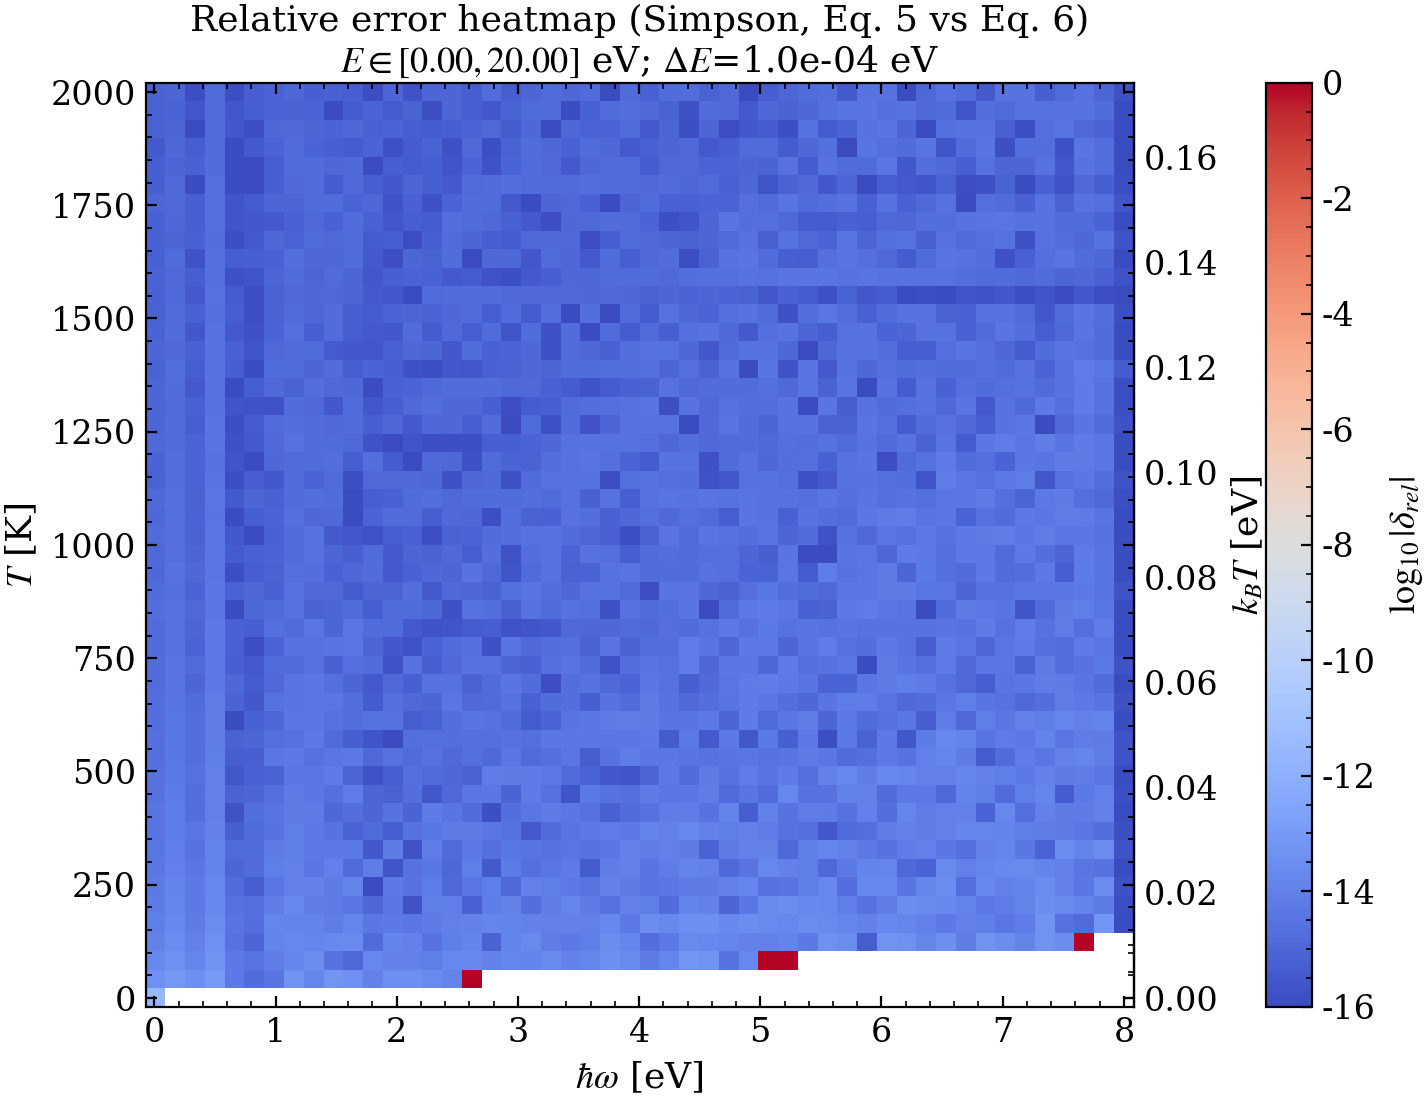
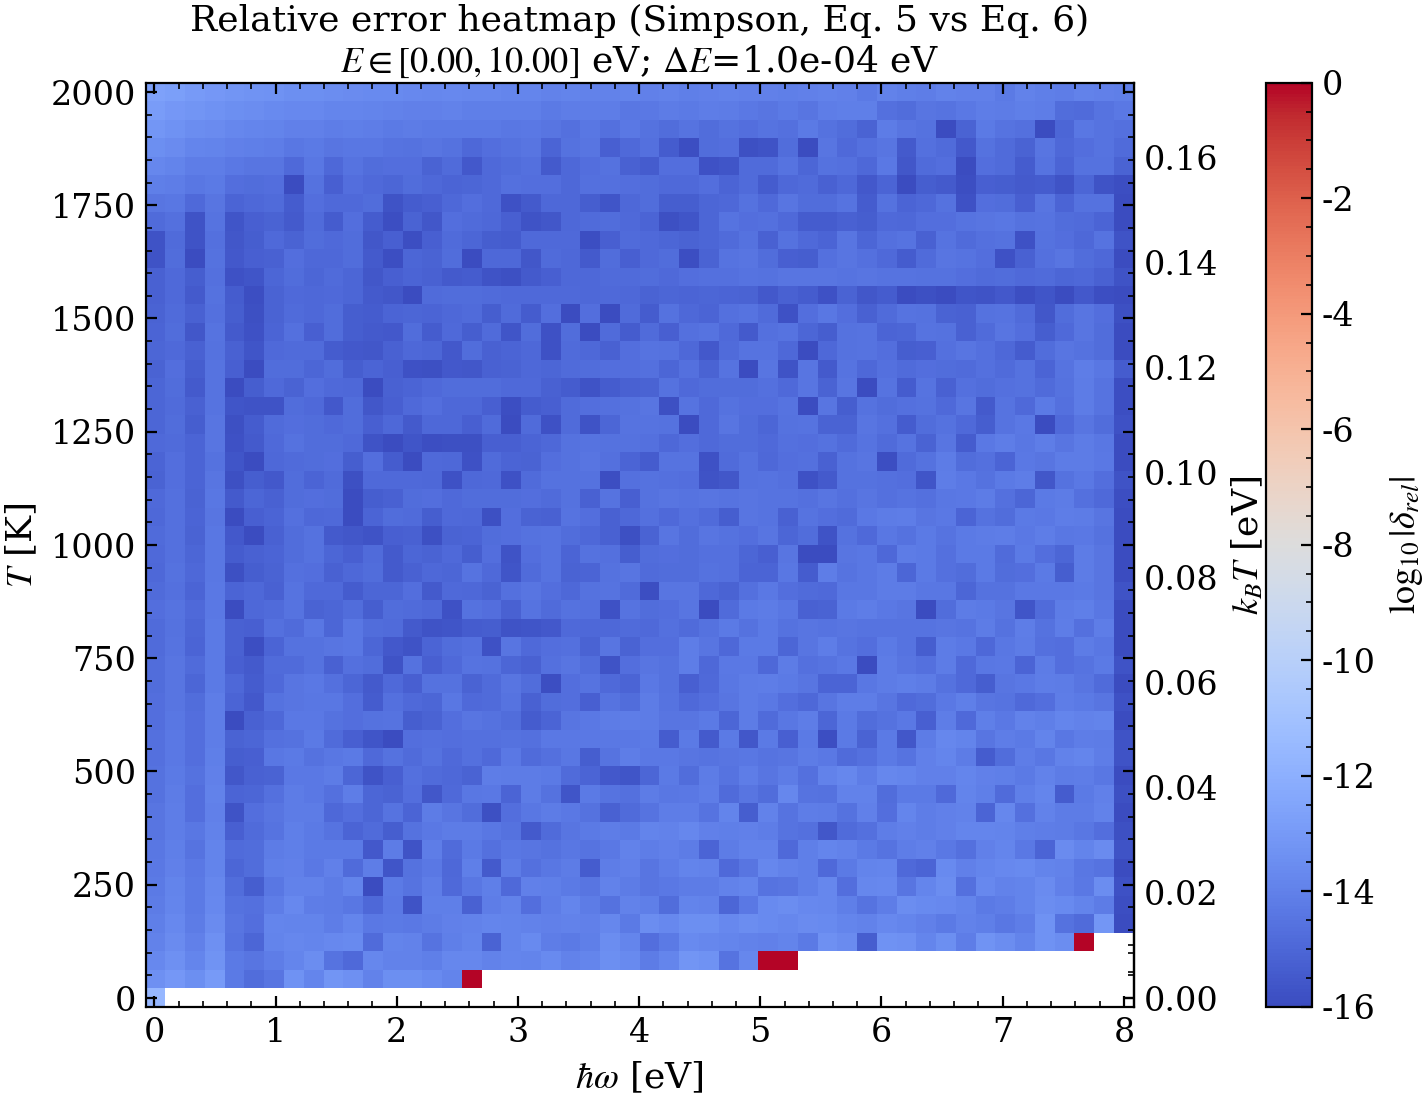
bus

diff --git a/code/main/3_constant_edos_approx.py b/code/main/3_constant_edos_approx.py
@@ -5,6 +5,19 @@ from scipy.integrate import simpson
 from plot_style import apply_style, save_svg, set_figure_title
 
 
+CONVERGED_D_E = 1e-4
+CONVERGED_E_MAX = 5.8
+
+
+def converged_energy_grid(
+    *, E_min: float = E_MIN, E_max: float = CONVERGED_E_MAX, dE: float = CONVERGED_D_E
+) -> np.ndarray:
+    E_grid = np.arange(E_min, E_max + dE, dE)
+    if E_grid.size < 2:
+        raise ValueError("E_min/E_max/dE must define at least two grid points.")
+    return E_grid
+
+
 def I5(hw, T):
     hw = np.asanyarray(hw)[..., None]
     T = np.asanyarray(T)[..., None]
@@ -18,6 +31,43 @@ def I4(hw, T):
     T = np.asanyarray(T)[..., None]
     integrand = eDOS(E_GRID) * eDOS(E_GRID + hw) * F_T(E_GRID + hw, E_GRID, T)
     return simpson(integrand, E_GRID, axis=-1)
+
+
+def I5_nonthermal(
+    hw,
+    T,
+    *,
+    hw_L: float,
+    delta_E: float,
+    E_grid: np.ndarray | None = None,
+):
+    if E_grid is None:
+        E_grid = converged_energy_grid()
+    hw = np.asanyarray(hw)[..., None]
+    T = np.asanyarray(T)[..., None]
+    g_F = eDOS(E_F)
+    f1 = f_neq(E_grid + hw, T, hw_L=hw_L, delta_E=delta_E)
+    f2 = f_neq(E_grid, T, hw_L=hw_L, delta_E=delta_E)
+    integrand = (g_F**2) * f1 * (1 - f2)
+    return simpson(integrand, E_grid, axis=-1)
+
+
+def I4_nonthermal(
+    hw,
+    T,
+    *,
+    hw_L: float,
+    delta_E: float,
+    E_grid: np.ndarray | None = None,
+):
+    if E_grid is None:
+        E_grid = converged_energy_grid()
+    hw = np.asanyarray(hw)[..., None]
+    T = np.asanyarray(T)[..., None]
+    f1 = f_neq(E_grid + hw, T, hw_L=hw_L, delta_E=delta_E)
+    f2 = f_neq(E_grid, T, hw_L=hw_L, delta_E=delta_E)
+    integrand = eDOS(E_grid) * eDOS(E_grid + hw) * f1 * (1 - f2)
+    return simpson(integrand, E_grid, axis=-1)
 
 
 def heatmap(*, save_name: str | None = "auto") -> None:

diff --git a/code/main/_preamble_and_funcs.py b/code/main/_preamble_and_funcs.py
@@ -63,9 +63,9 @@ def f_neq(E, T, hw_L, delta_E):
     f = f_T + delta_E * [f_T(E-hw_L)(1-f_T(E)) - f_T(E)(1-f_T(E+hw_L))]
     """
     ft = f_T(E, T)
-    ft_minus = f_T(E - hw_L, T)
-    ft_plus = f_T(E + hw_L, T)
-    B = ft_minus * (1 - ft) - ft * (1 - ft_plus)
+    fm = f_T(E - hw_L, T)
+    fp = f_T(E + hw_L, T)
+    B = fm * (1 - ft) - ft * (1 - fp)
     return ft + delta_E * B
 
 
@@ -76,7 +76,6 @@ def n_B(hw, T):
         exp_arg = beta_T * hw
         return 1.0 / (np.expm1(exp_arg))
 
-
 # (STABLE) THERMAL FACTOR
 def F_T(E1, E2, T):
     """Stable thermal factor f(E1)[1-f(E2)]"""
@@ -86,7 +85,6 @@ def F_T(E1, E2, T):
     a2 = beta_T * (E2 - mu)
     return np.exp(a2 - np.logaddexp(0.0, a2) - np.logaddexp(0.0, a1))
 
-
 # (CLIPPED) LOGARITHMIC RELATIVE ERROR
 def relative_error(candidate: np.ndarray, reference: np.ndarray) -> np.ndarray:
     """Elementwise |(candidate-reference)/reference|, with 0/0 -> 0."""
@@ -94,7 +92,6 @@ def relative_error(candidate: np.ndarray, reference: np.ndarray) -> np.ndarray:
     rel = np.abs(candidate - reference) / np.abs(reference)
     rel = np.clip(rel, 1e-16, 1.0)
     return np.log10(rel)
-
 
 def plot_distributions(hw, T, *, save_name: str | None = None):
     fig, (ax1, ax2) = plt.subplots(2, 1, figsize=(10, 7.5), sharex=True)
@@ -189,7 +186,6 @@ def plot_distributions(hw, T, *, save_name: str | None = None):
     if save_name is not None:
         _save_without_sliders(save_name)
     plt.show()
-
 
 def plot_edos_relative_error(
     hw: float | None = None,

diff --git a/code/main/2_numeric_convergence.py b/code/main/2_numeric_convergence.py
@@ -224,7 +224,7 @@ def plot_length_convergence(T: float = 300.0, *, save_name: str | None = "auto")
 
 if __name__ == "__main__":
     apply_style()
-    plot_heatmap()
-    # plot_heatmap_50x50()
+    # plot_heatmap()
+    plot_heatmap_50x50()
     # plot_step_convergence(300.0)
     # plot_length_convergence(300.0)
